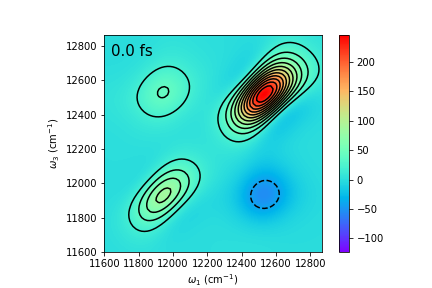
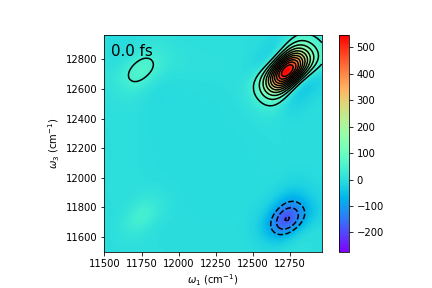
After 2DES spectra calculation for UP18 abstract

diff --git a/examples/demo_2D_dimer.py b/examples/demo_2D_dimer.py
@@ -50,7 +50,7 @@ with energy_units("1/cm"):
 mol1.position = [0.0, 0.0, 0.0]
 # dimer 1
 #mol2.position = [0.0, 6.0, 0.0]
-mol2.position = [0.0, 0.0, 7.0]
+mol2.position = [0.0, 0.0, 5.0]
 ## dimer 2
 #mol2.position = [0.0, 0.0, 6.0]
 mju1=numpy.array([3.0,1.0,0.0])
@@ -132,10 +132,10 @@ tcalc.bootstrap(rwa, verbose=True, lab=lab)
 # Calculate 2D spectra, display and save them
 #    
 
-w1_min = rwa_cm - 650.0
-w1_max = rwa_cm + 650.0
-w3_min = rwa_cm - 650.0
-w3_max = rwa_cm + 650.0
+w1_min = rwa_cm - 750.0
+w1_max = rwa_cm + 750.0
+w3_min = rwa_cm - 750.0
+w3_max = rwa_cm + 750.0
 
 window_2D = [w1_min, w1_max, w3_min, w3_max]
 t_start = time.time()
